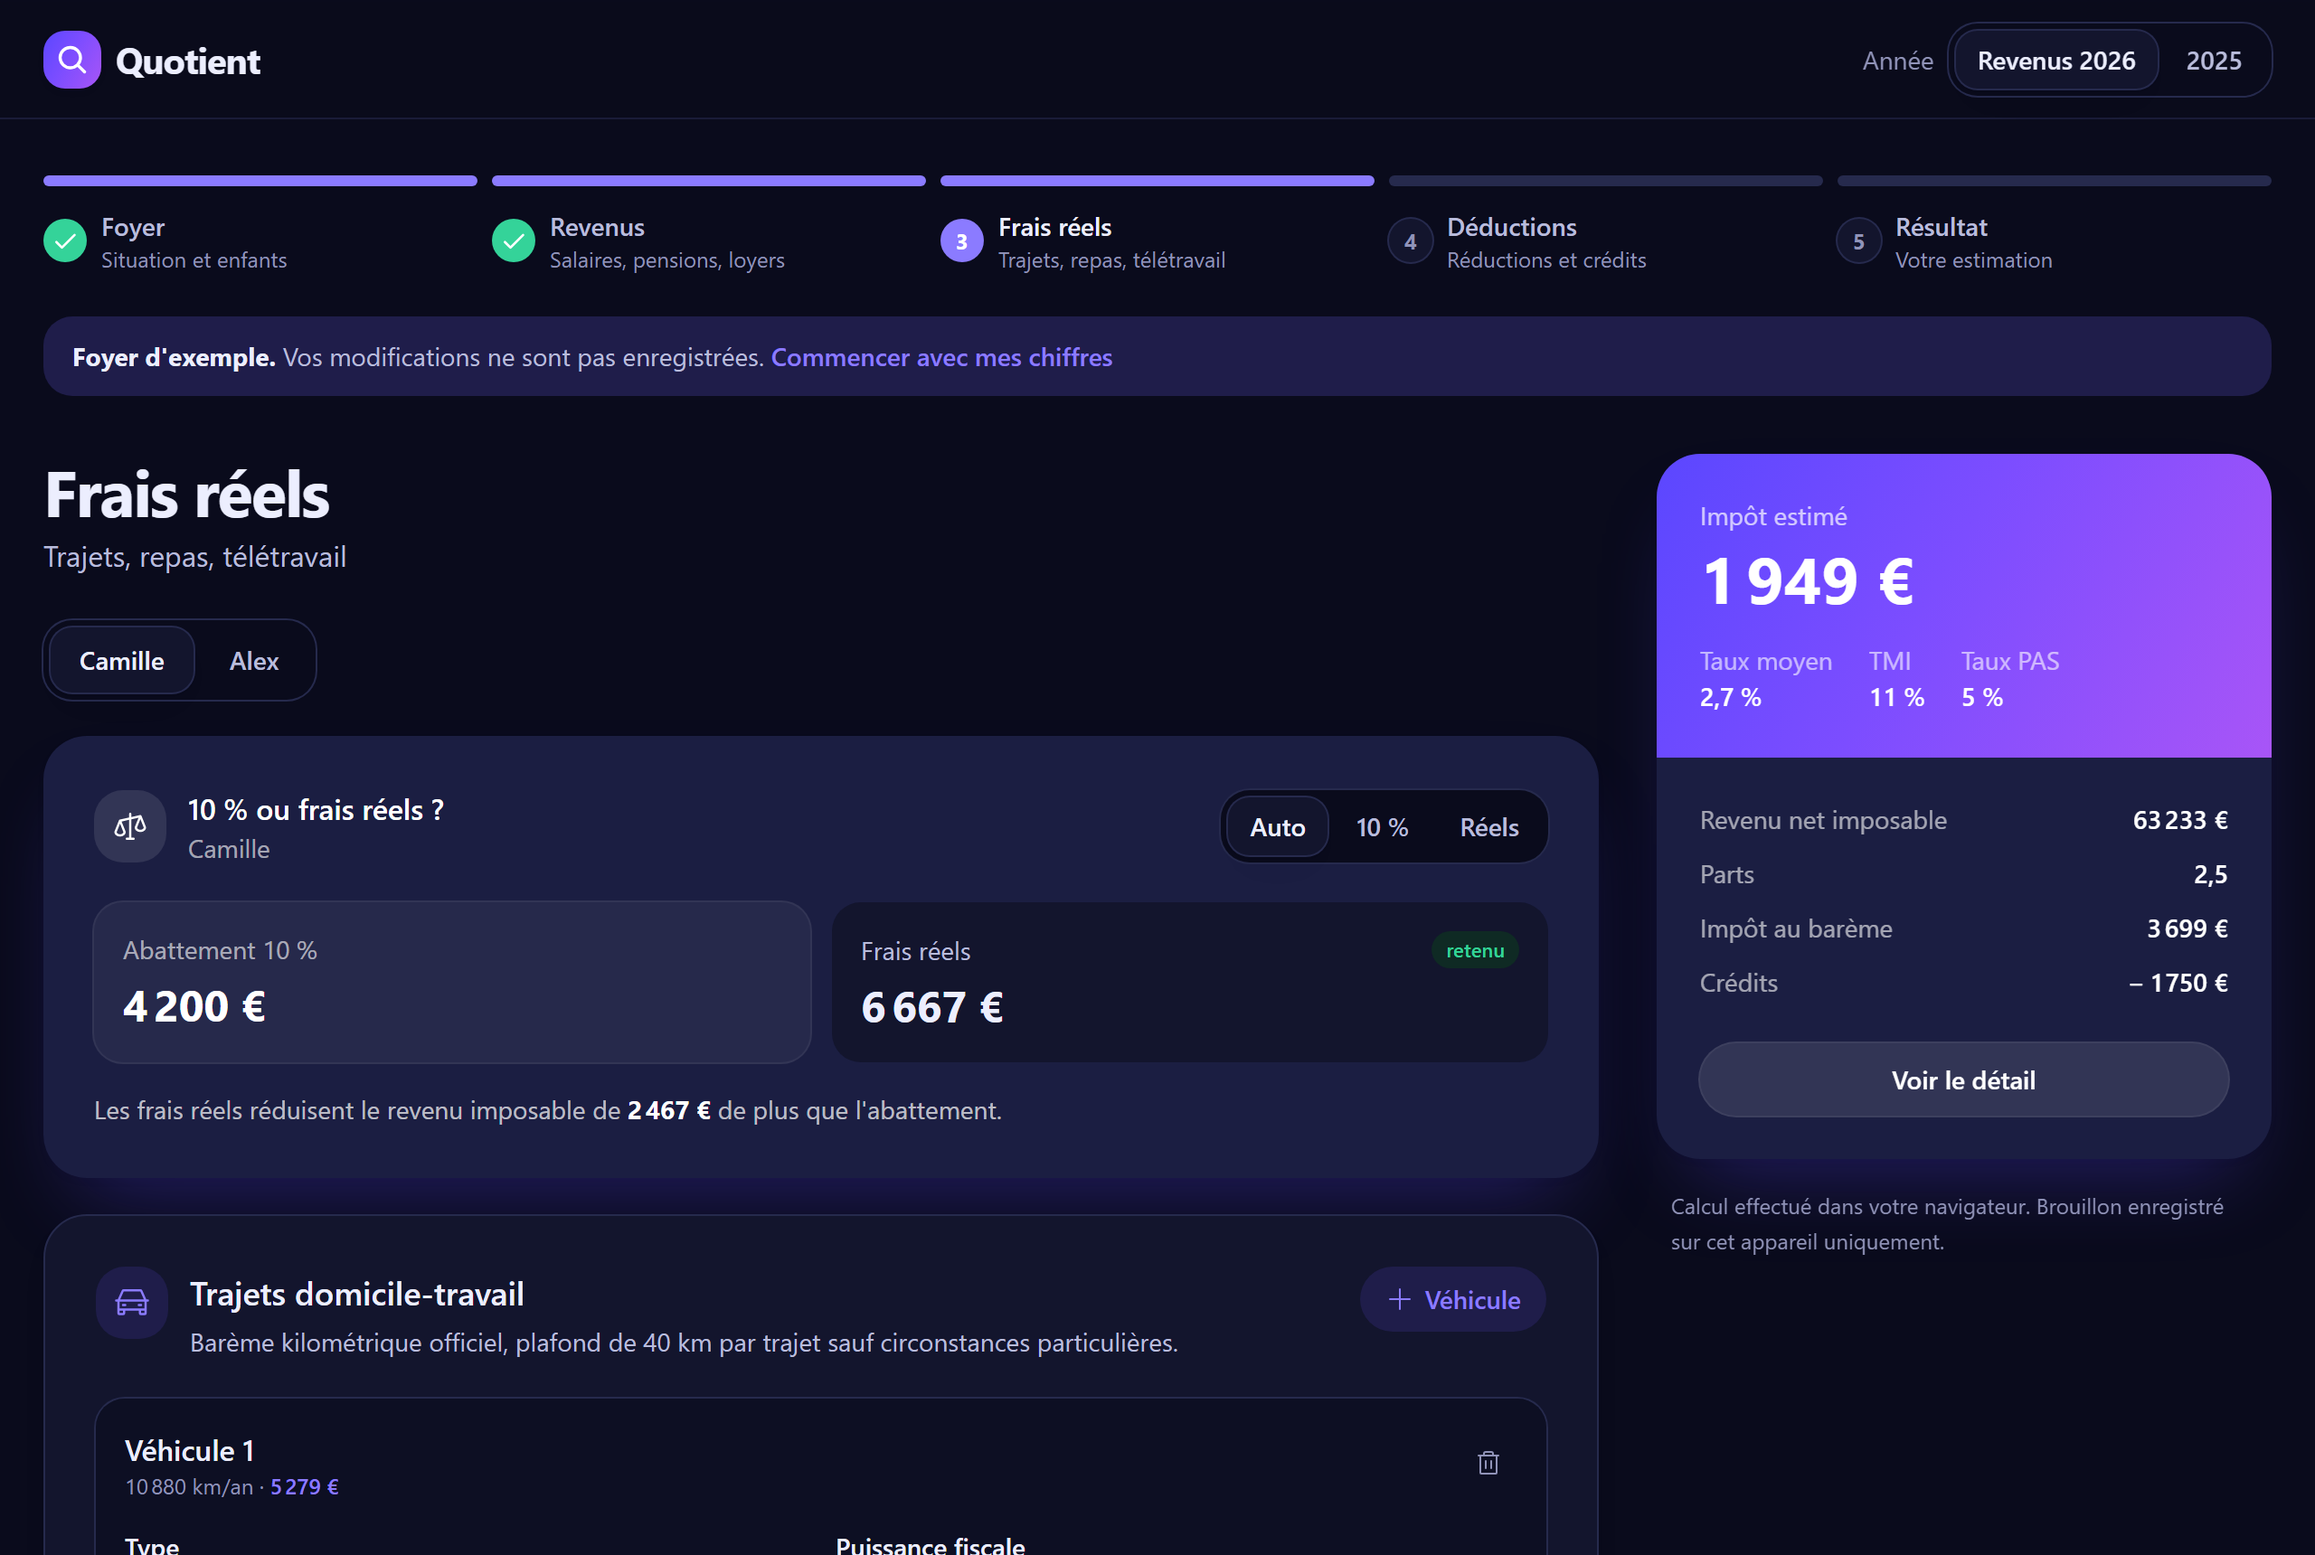
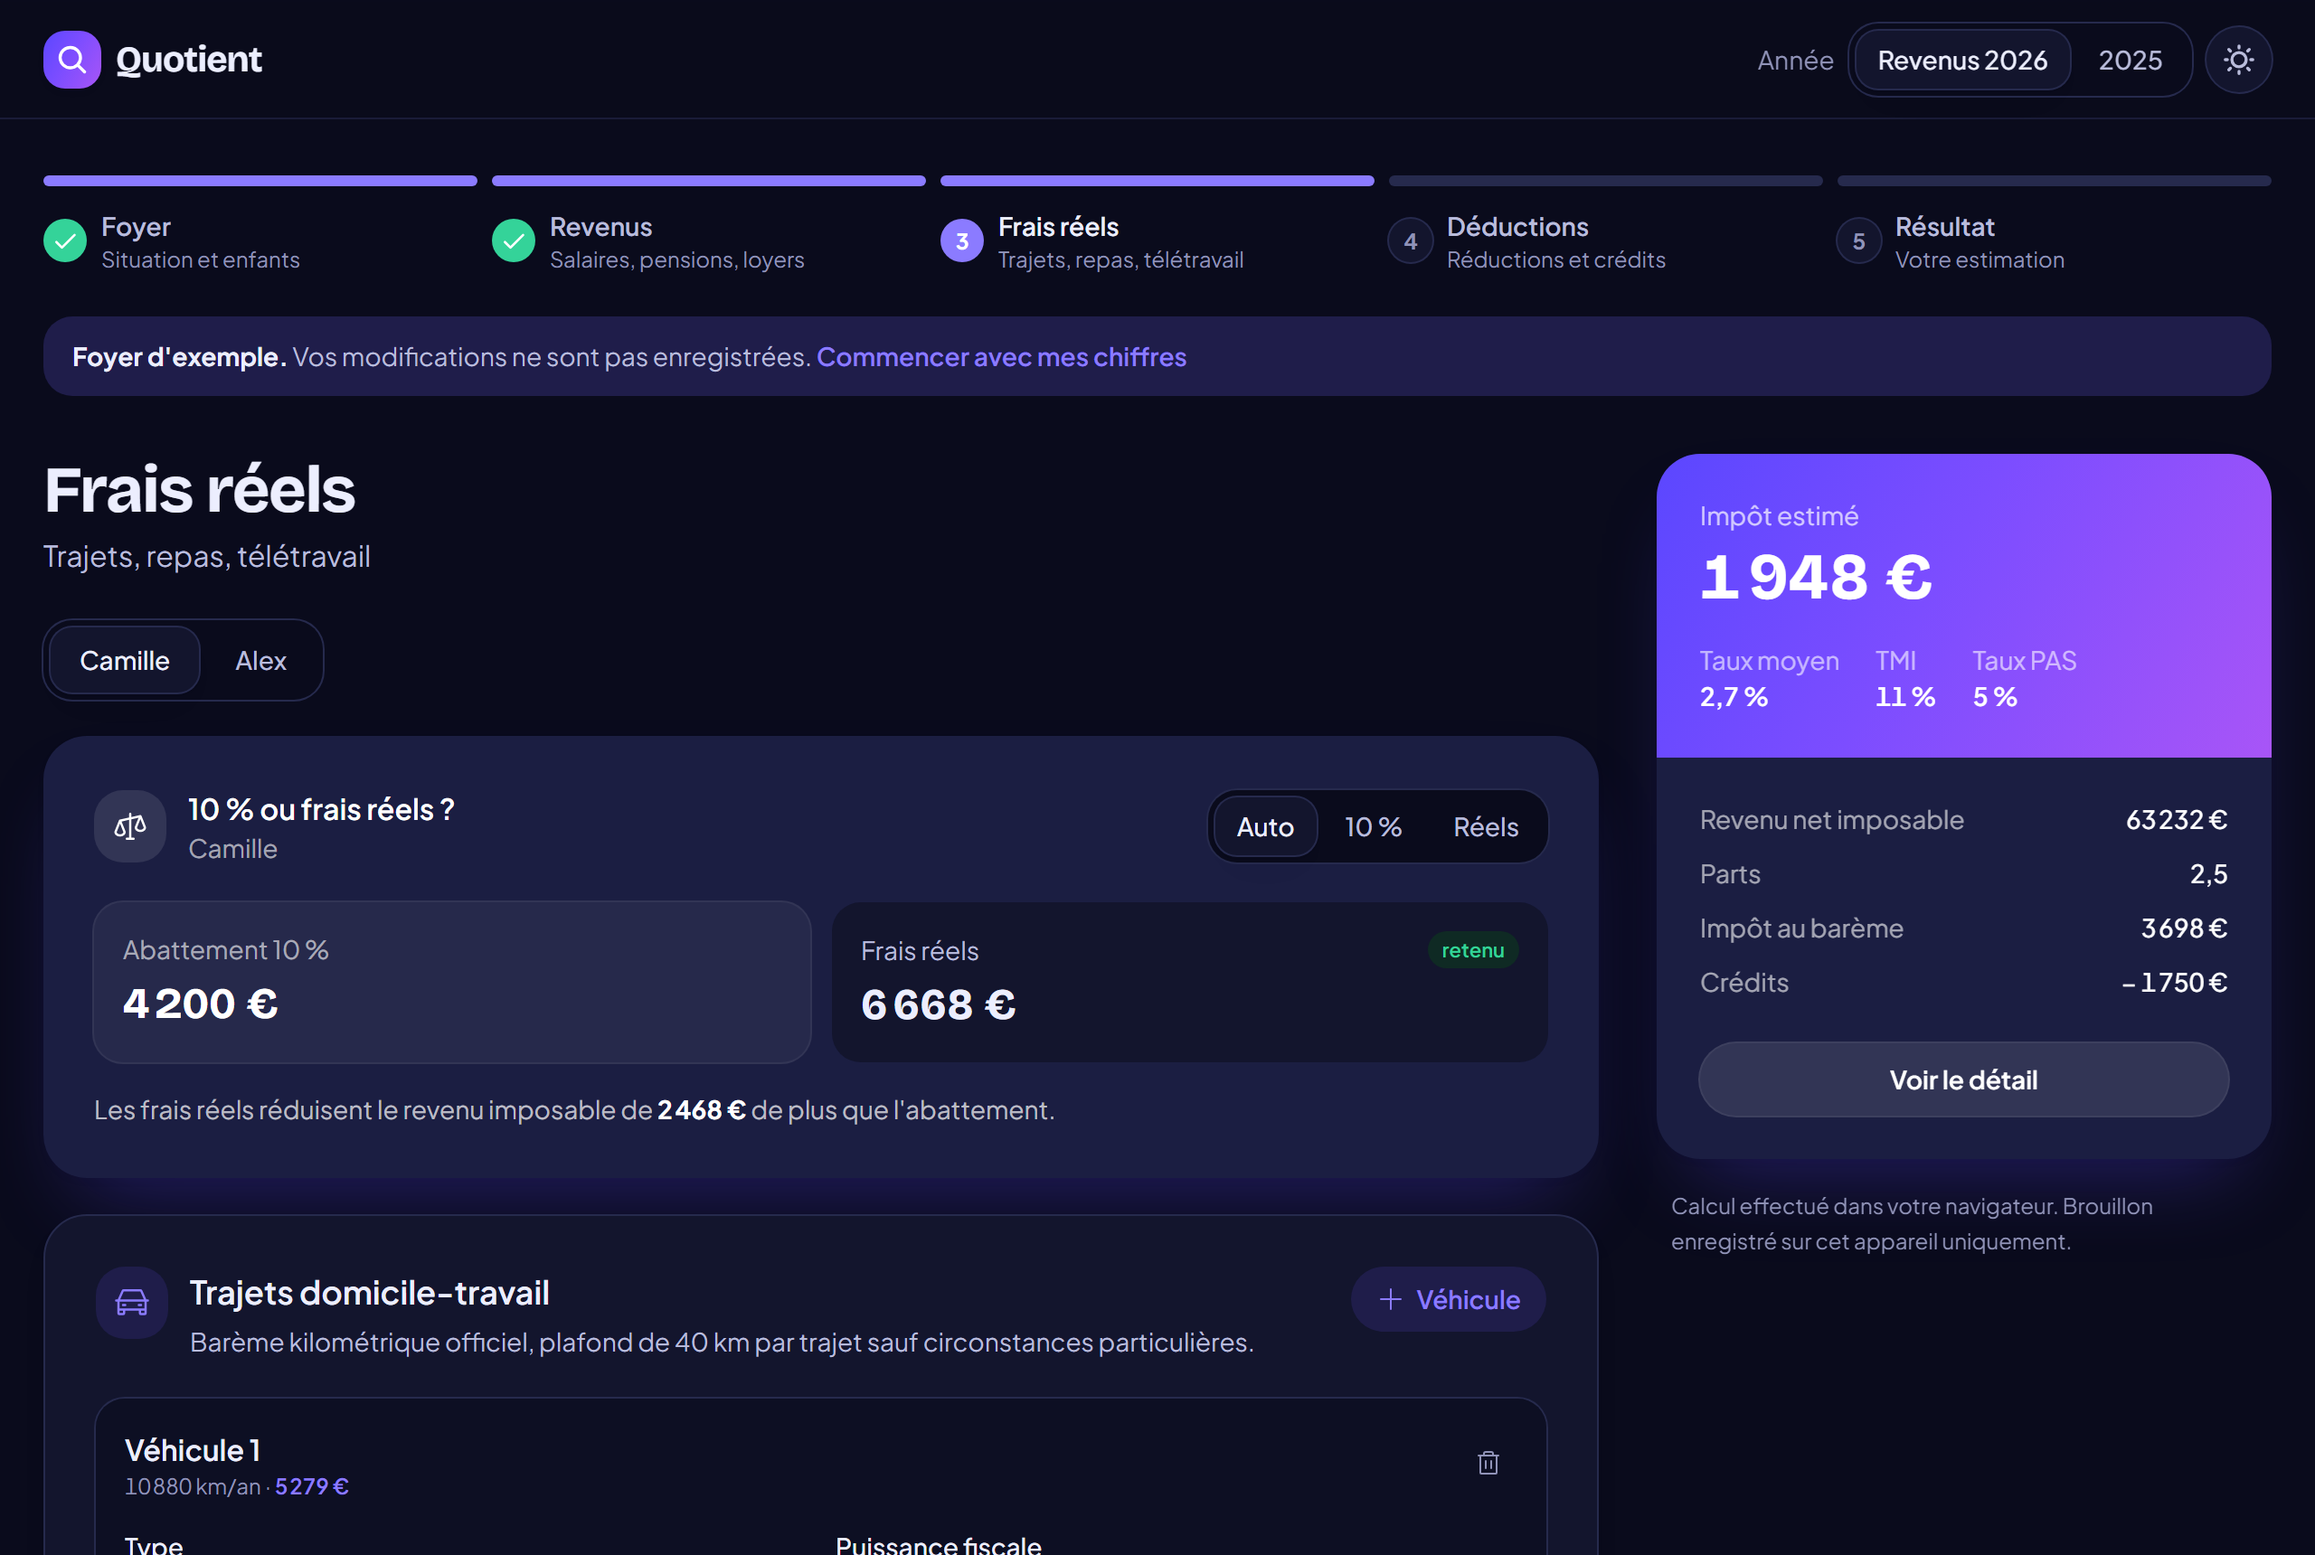
Fix web fonts never being applied
The next/font CSS variables were set on <body>, but the Tailwind theme
variables (--font-sans, --font-display) are declared on :root and
resolve var(--font-jakarta) there, where it was undefined. Both theme
variables became invalid, so the whole site fell back to the system font.
Move the font variable classes to <html>.

Simulator screenshots retaken with the correct fonts.

diff --git a/src/app/layout.tsx b/src/app/layout.tsx
@@ -27,11 +27,13 @@ export default function RootLayout({
 }>) {
   return (
     // L'attribut data-theme est posé par le script avant l'hydratation : on tolère l'écart côté React.
-    <html lang="fr" suppressHydrationWarning>
+    // Les variables de police sont posées sur <html> : le thème Tailwind (--font-sans, --font-display)
+    // les lit sur :root, où elles doivent donc être définies.
+    <html lang="fr" className={`${jakarta.variable} ${display.variable}`} suppressHydrationWarning>
       <head>
         <script dangerouslySetInnerHTML={{ __html: SCRIPT_THEME }} />
       </head>
-      <body className={`${jakarta.variable} ${display.variable} antialiased`}>{children}</body>
+      <body className="antialiased">{children}</body>
     </html>
   );
 }
